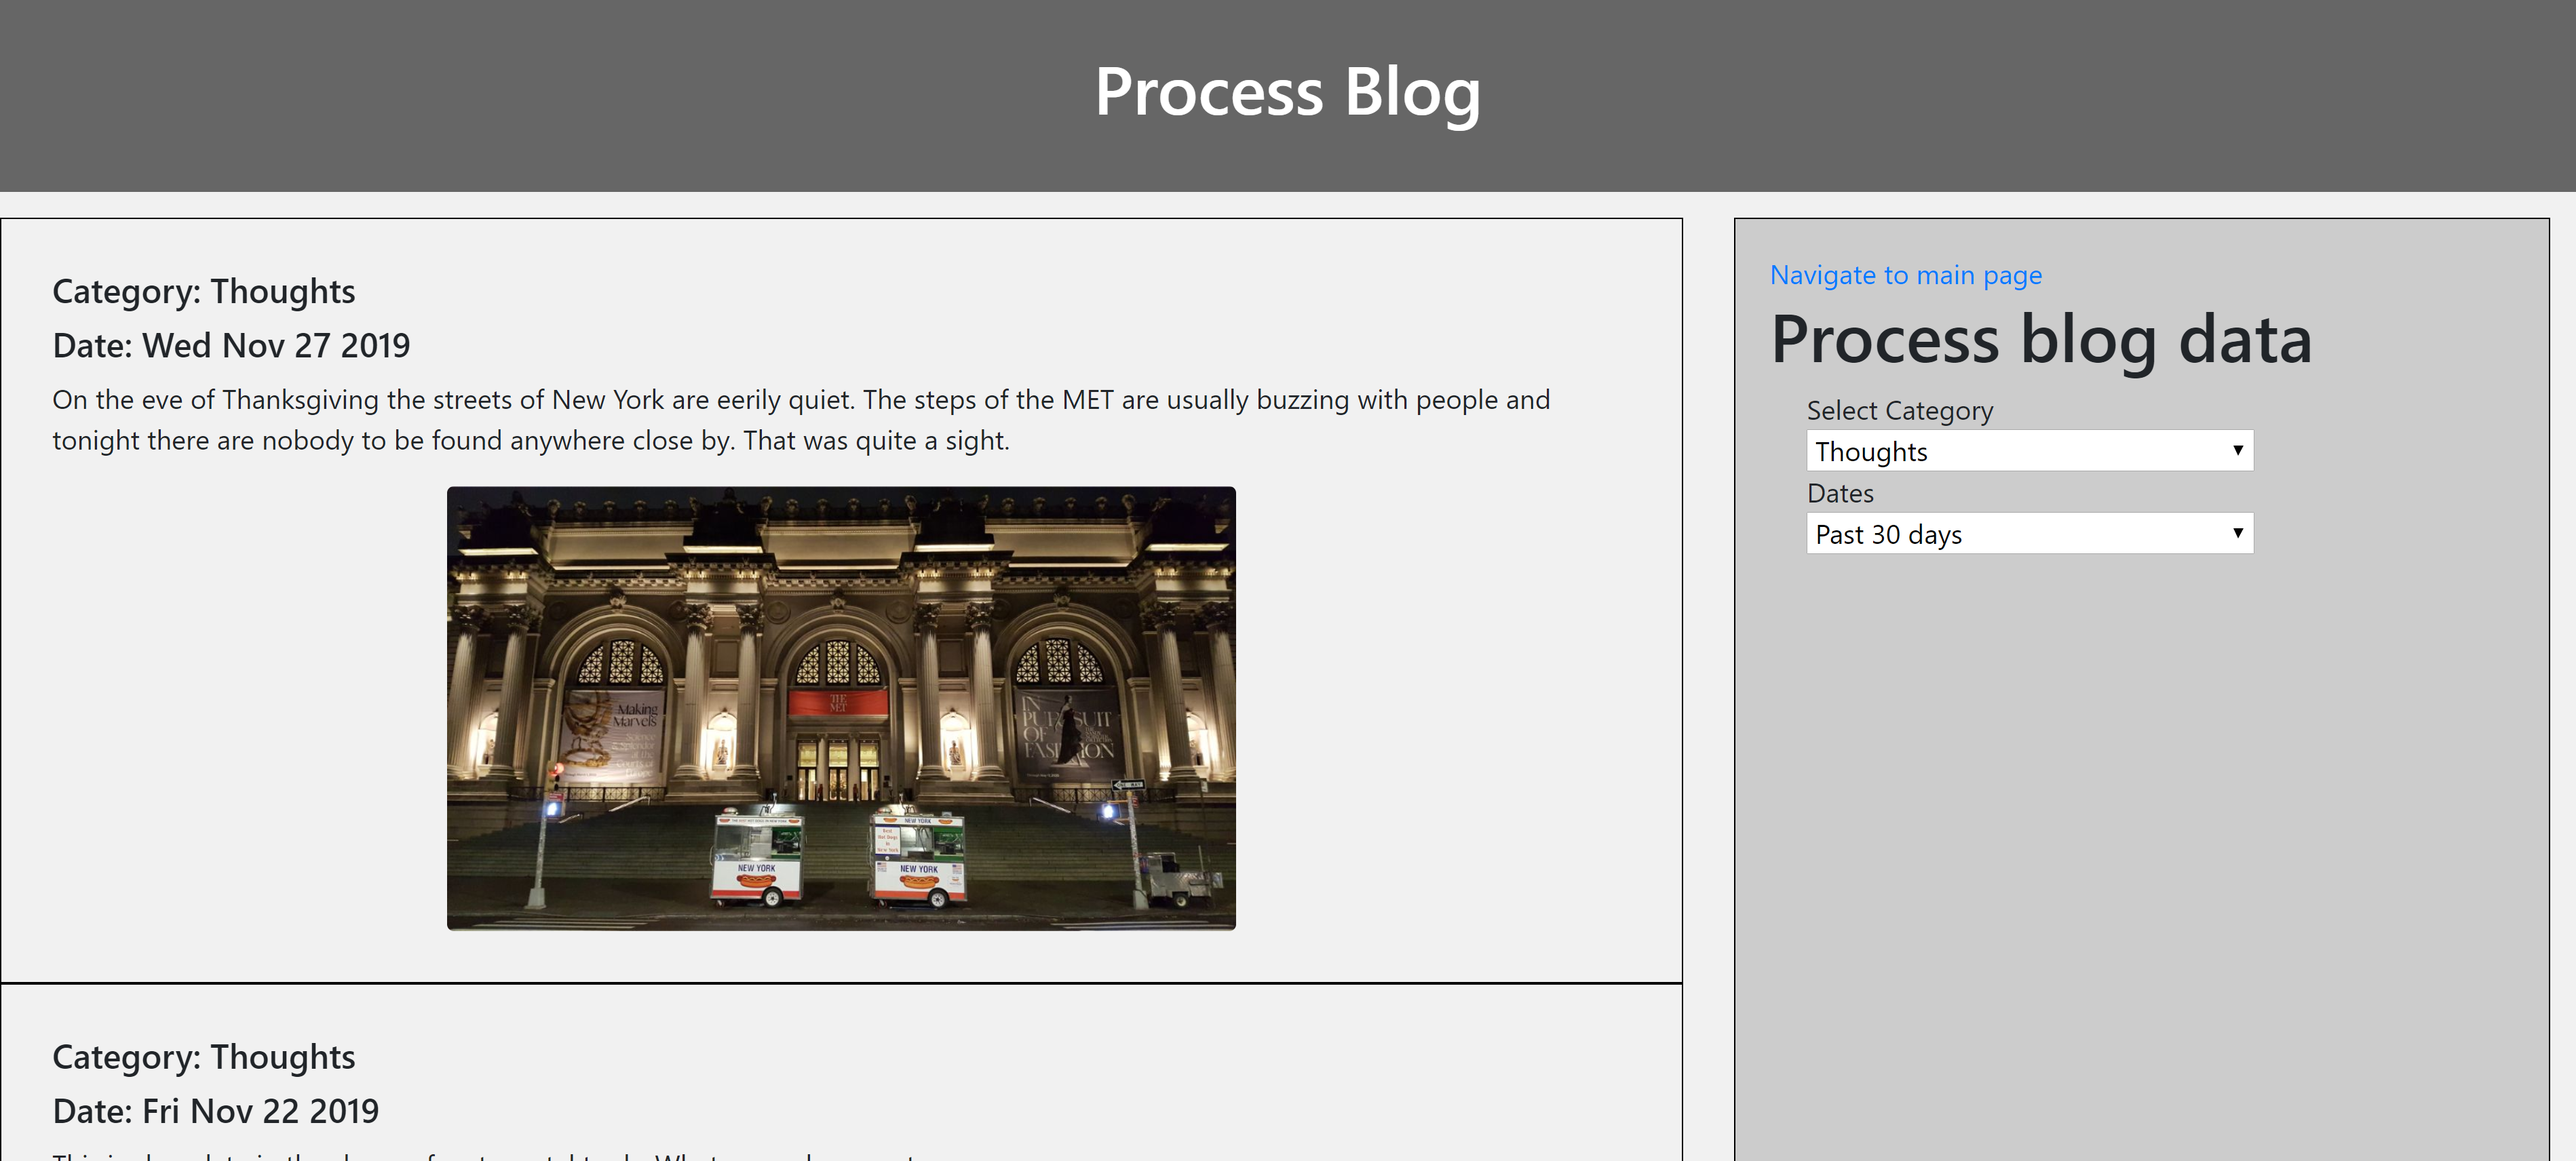
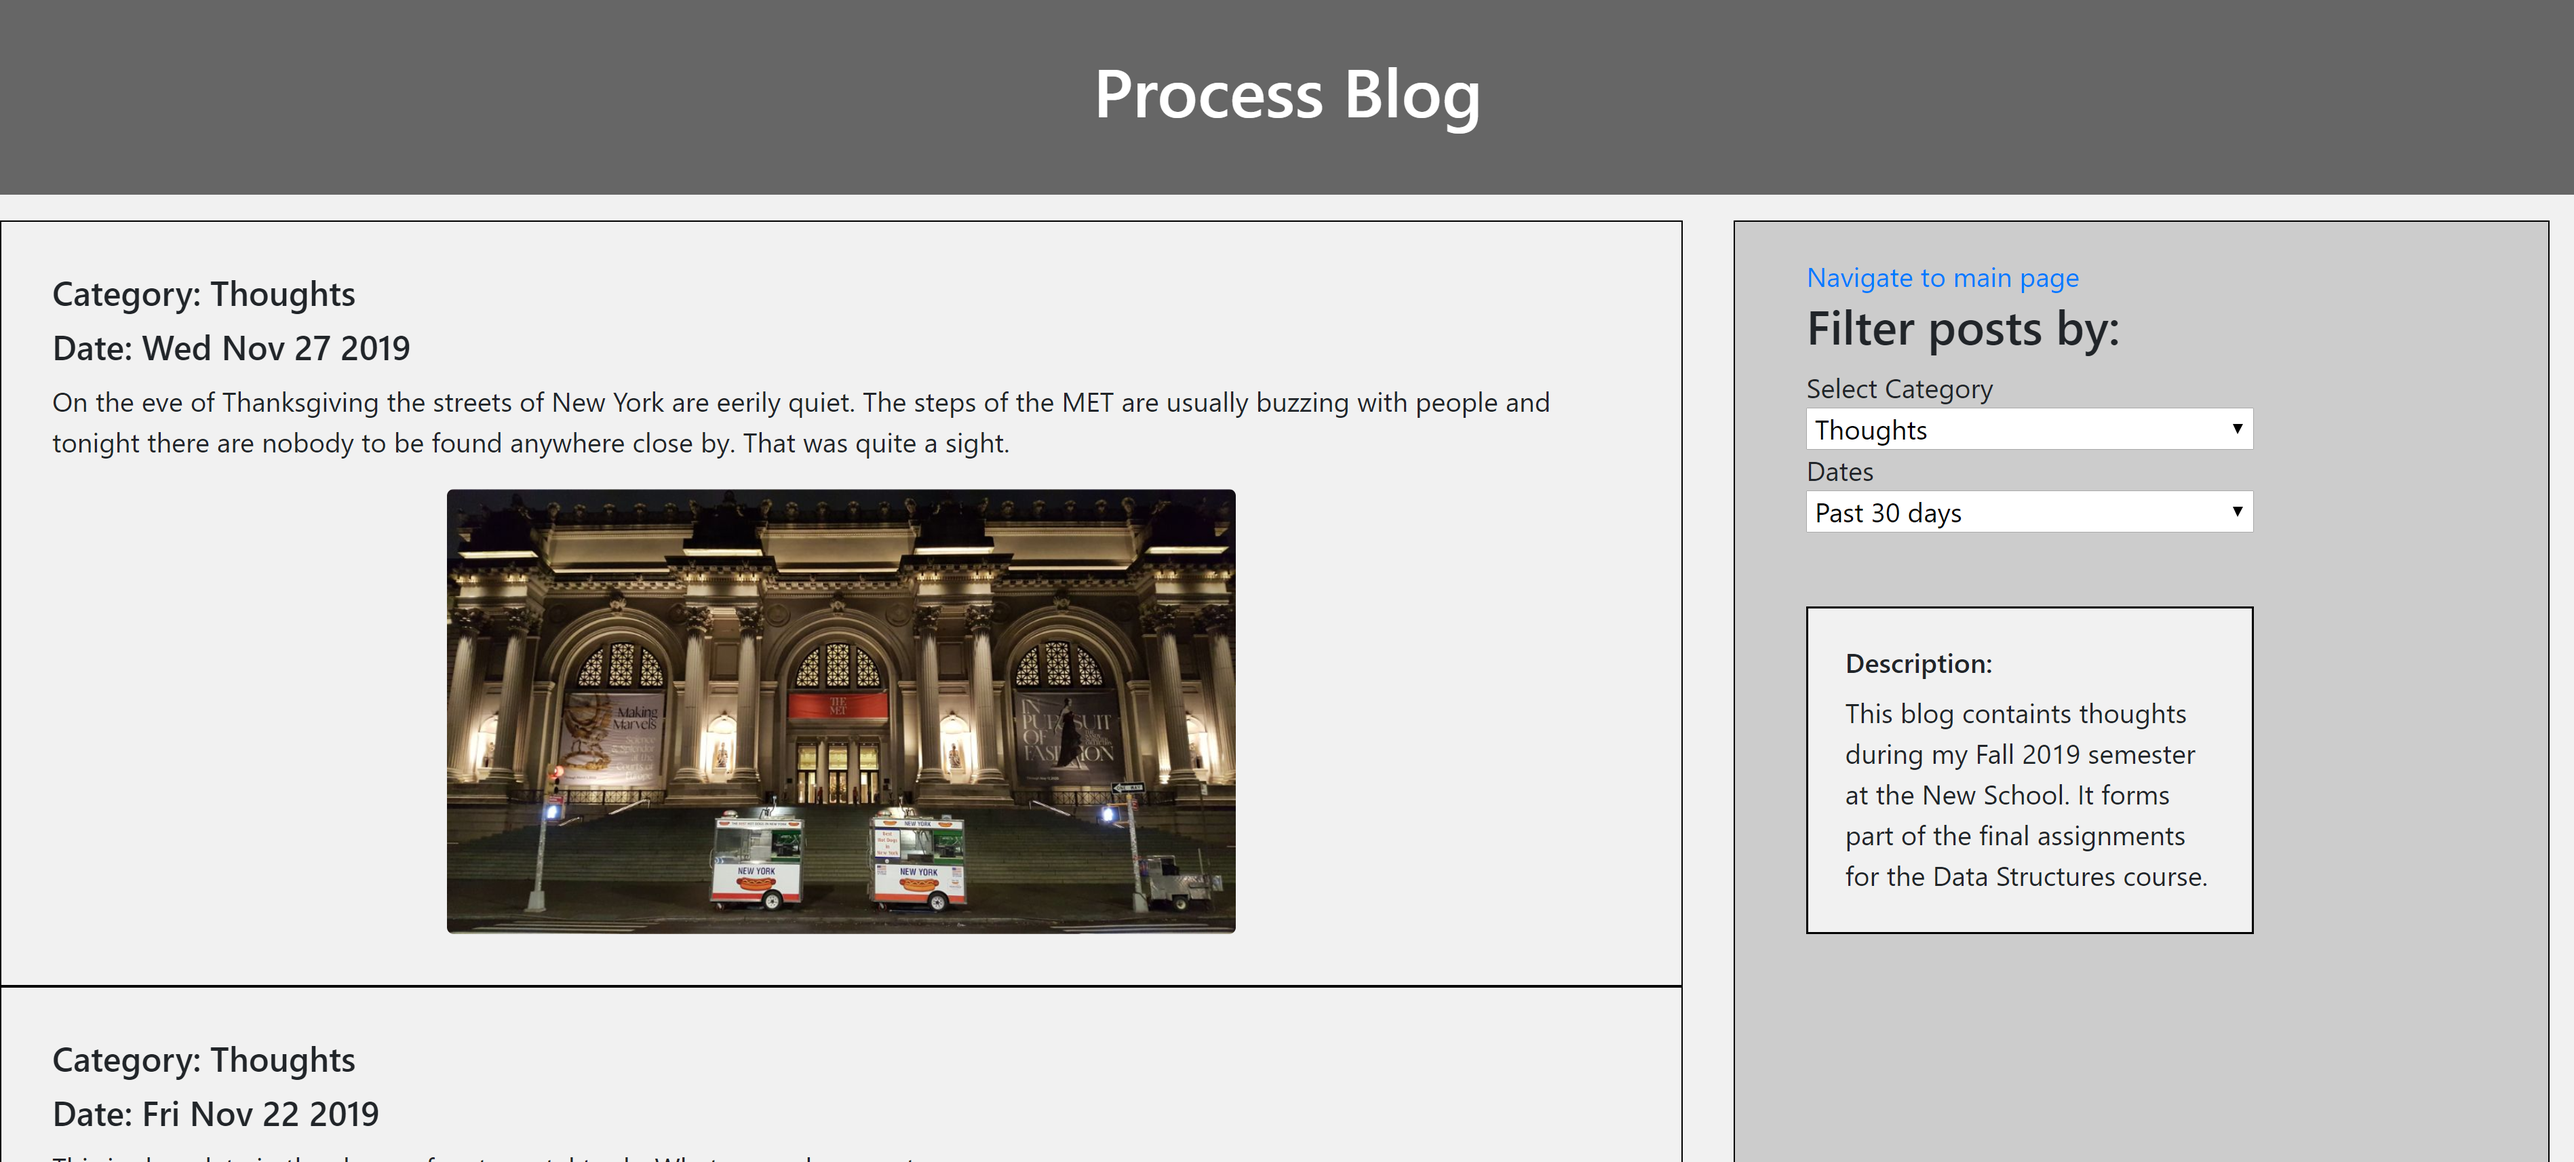
Styling

diff --git a/finalAssignments/public/final2_processblog.html b/finalAssignments/public/final2_processblog.html
@@ -45,9 +45,10 @@
             <div class="column2">
                 <nav>
                     <ul>
+                        <div class="dropdownmenudiv">
                         <li><a href='/'>Navigate to main page</a></li>
-                        
-                        <li><h1>Process blog data </h1></li>
+                        <li><h3>Filter posts by: </h3></li>
+                        </div>
                         <!--<li><a href='/'>Navigate to main page</a><li>-->
                         <!--<li><a href='/prblThoughts'>Thoughts</a><li>-->
                         <!--<li><a href='/prblIoT'>IoT</a><li>-->
@@ -81,8 +82,13 @@
                                   <option value="1year">Past year</option>
                                 </select>
                         </li>
+                        <div class="dropdownmenudiv">
                         <li id="blogcount">
+                            <h6>Description:</h6>
+                            This blog containts thoughts during my Fall 2019 semester at the New School.
+                            It forms part of the final assignments for the Data Structures course.
                         </li>
+                        <div>
                     </ul>
                 </nav>
                 </div>

diff --git a/finalAssignments/public/styles/processblog.css b/finalAssignments/public/styles/processblog.css
@@ -127,3 +127,13 @@ img {
   max-height: 300px;
   /*margin: 100px;*/
 }
+
+
+#blogcount {
+  background-color: #f1f1f1;
+  margin-top: 10%;
+  padding: 5%;
+  max-width: 60%;
+  display: inline-block;
+  border: 1px solid #000;
+}
